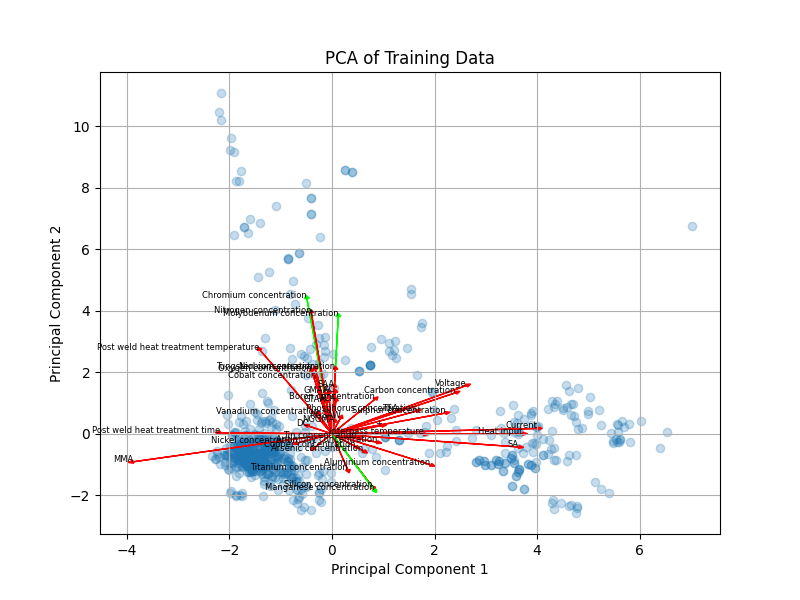
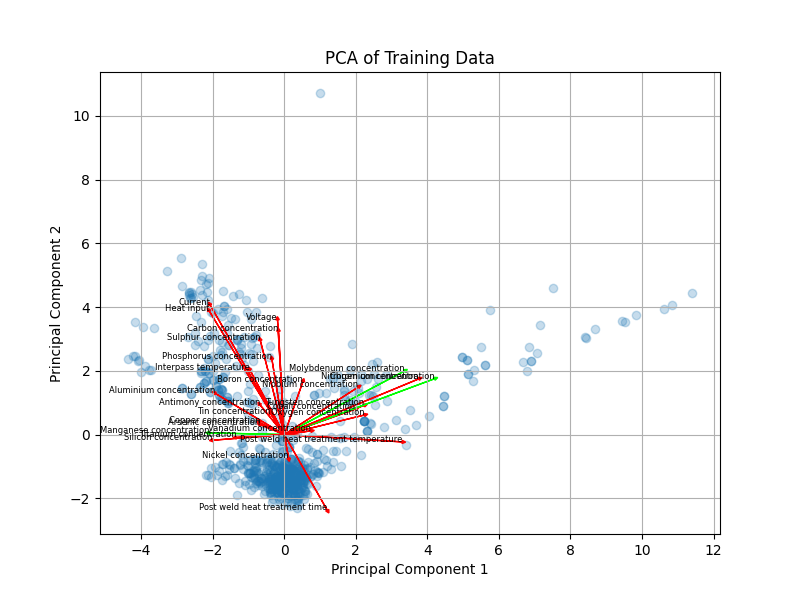
concat one_hot with pca

diff --git a/utils/data.py b/utils/data.py
@@ -282,8 +282,13 @@ def get_data(
         y = replace_nan(y, method=nan_values)
 
         if normalize:
-            X = scale(X)
-            X = pca(X, n_components=n_pca, plot=plot_pca)
+            X_not_one_hot = X.drop(WELD_TYPE + ELECTRODE_TYPE + AC_DC, axis=1, errors="ignore")
+            X_one_hot = X.drop(X_not_one_hot.columns, axis=1)
+            
+            X_not_one_hot = scale(X_not_one_hot)
+            X_not_one_hot = pca(X_not_one_hot, n_components=n_pca, plot=plot_pca)
+            
+            X = pd.concat([X_not_one_hot, X_one_hot], axis=1)
 
         return X, y
 
@@ -294,8 +299,16 @@ def get_data(
     X_train, X_test = replace_nan(X_train, X_test, method=nan_values)
 
     if normalize:
-        X_train, X_test = scale(X_train, X_test)
-        X_train, X_test = pca(X_train, X_test, n_components=n_pca, plot=plot_pca)
+        X_train_not_one_hot = X_train.drop(WELD_TYPE + ELECTRODE_TYPE + AC_DC, axis=1, errors="ignore")
+        X_test_not_one_hot = X_test.drop(WELD_TYPE + ELECTRODE_TYPE + AC_DC, axis=1, errors="ignore")
+        X_train_one_hot = X_train.drop(X_train_not_one_hot.columns, axis=1)
+        X_test_one_hot = X_test.drop(X_test_not_one_hot.columns, axis=1)
+        
+        X_train_not_one_hot, X_test_not_one_hot = scale(X_train_not_one_hot, X_test_not_one_hot)
+        X_train_not_one_hot, X_test_not_one_hot = pca(X_train_not_one_hot, X_test_not_one_hot, n_components=n_pca, plot=plot_pca)
+        
+        X_train = pd.concat([X_train_not_one_hot, X_train_one_hot], axis=1)
+        X_test = pd.concat([X_test_not_one_hot, X_test_one_hot], axis=1)
 
     return X_train, X_test, y_train, y_test
 
